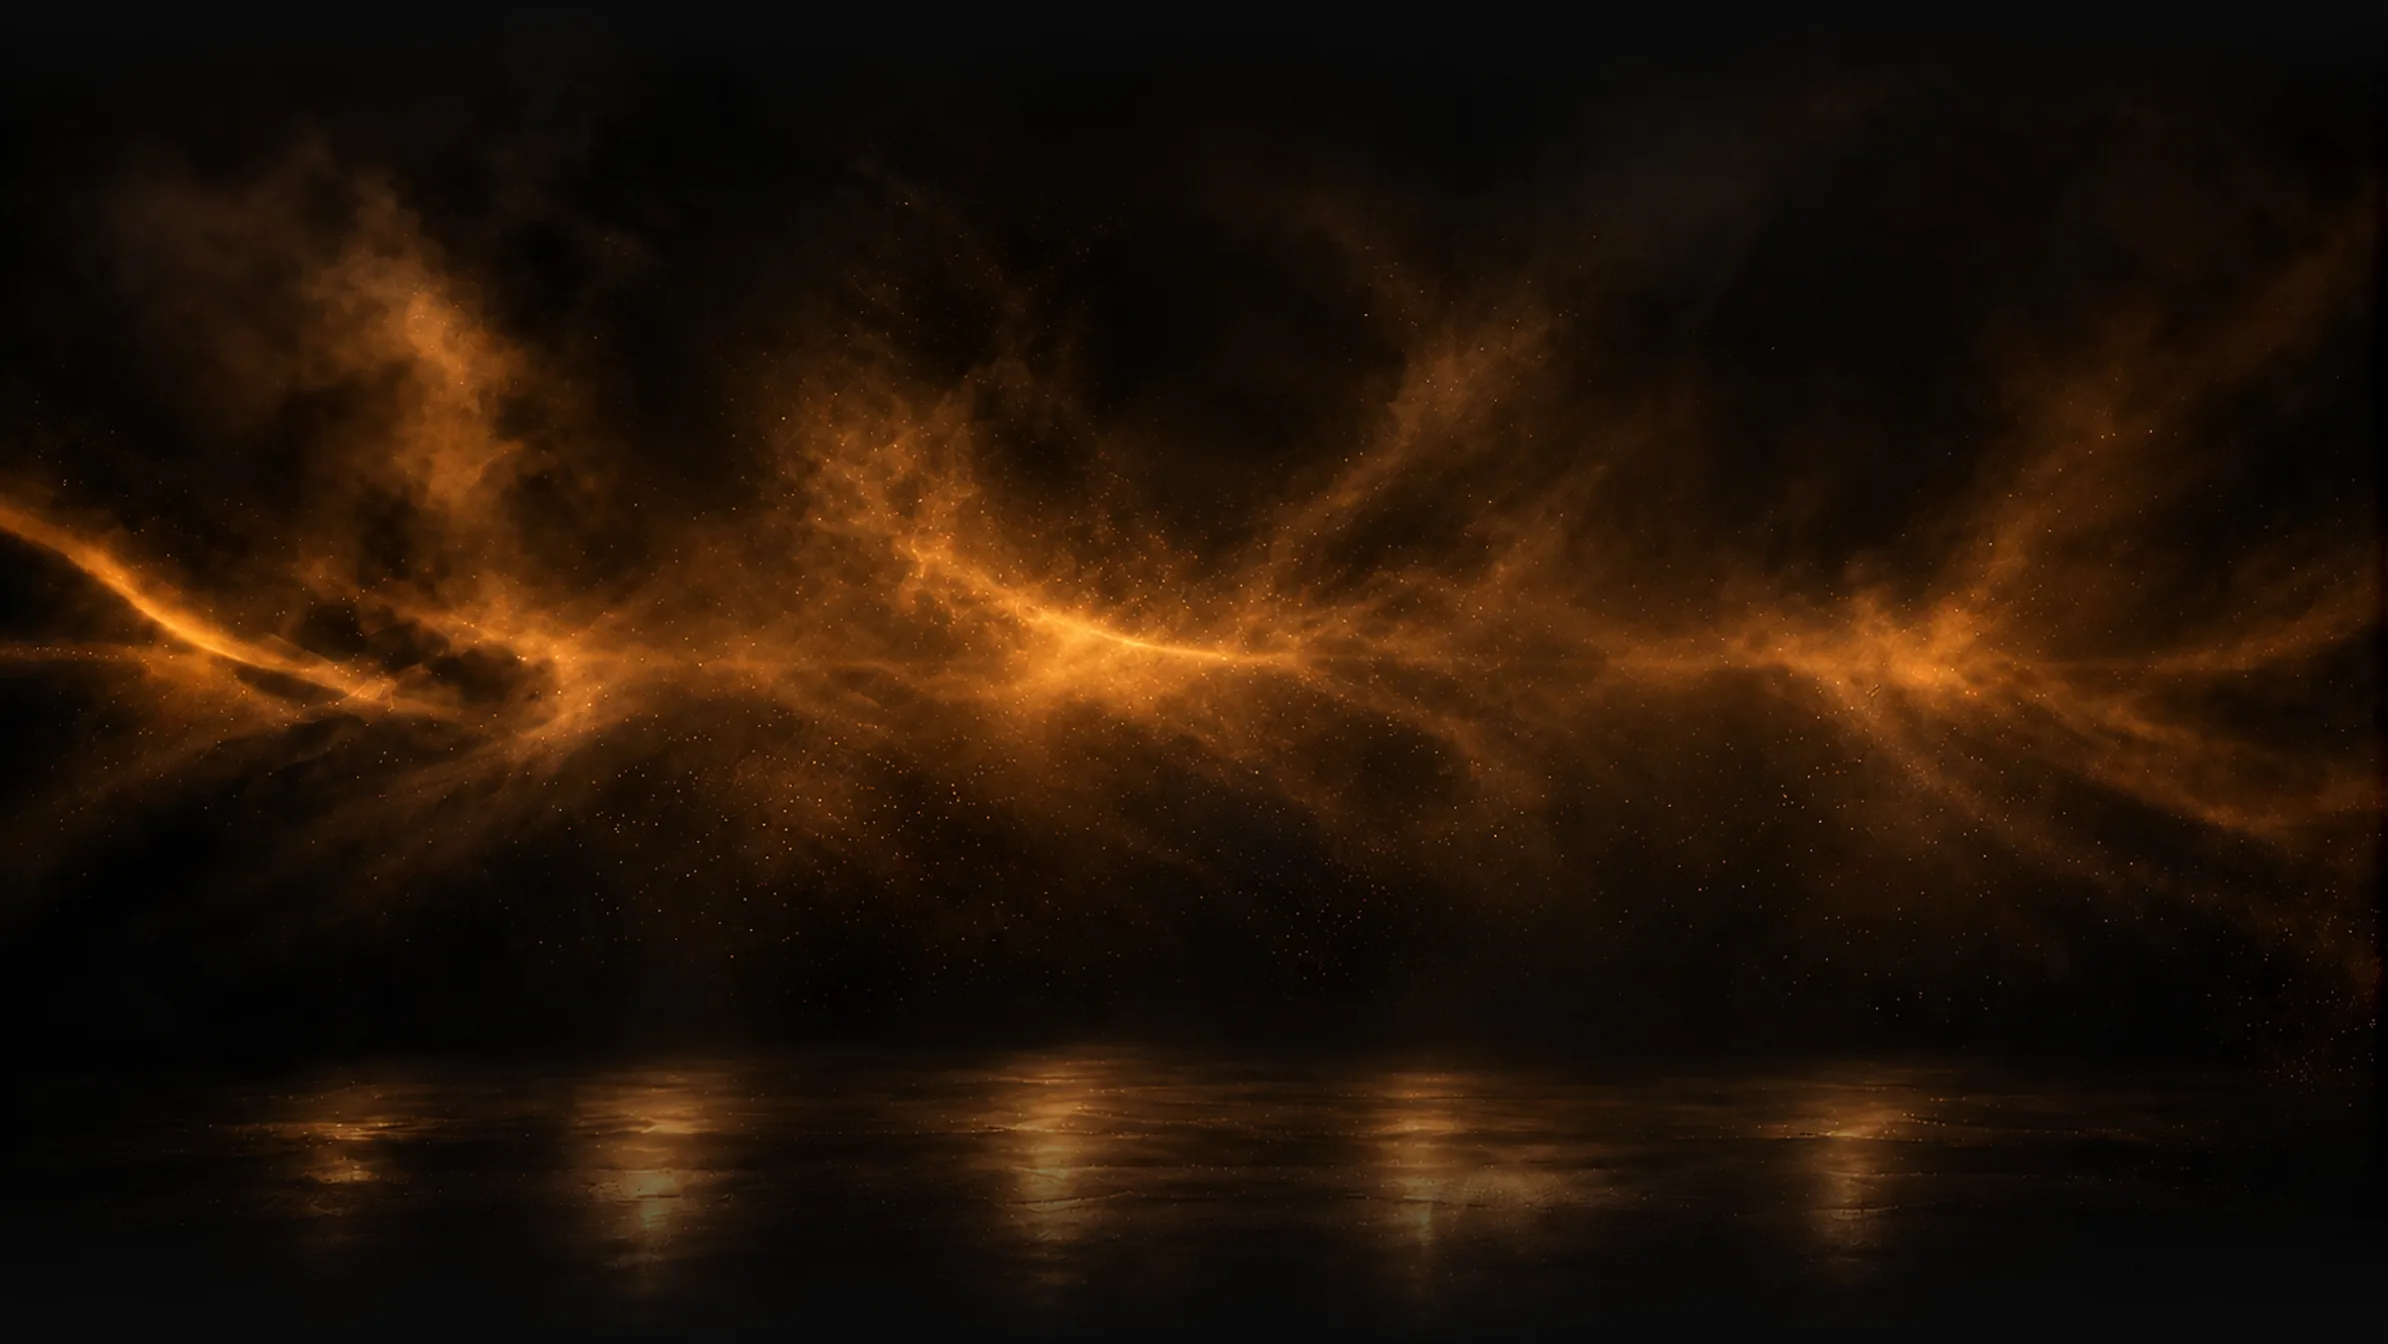
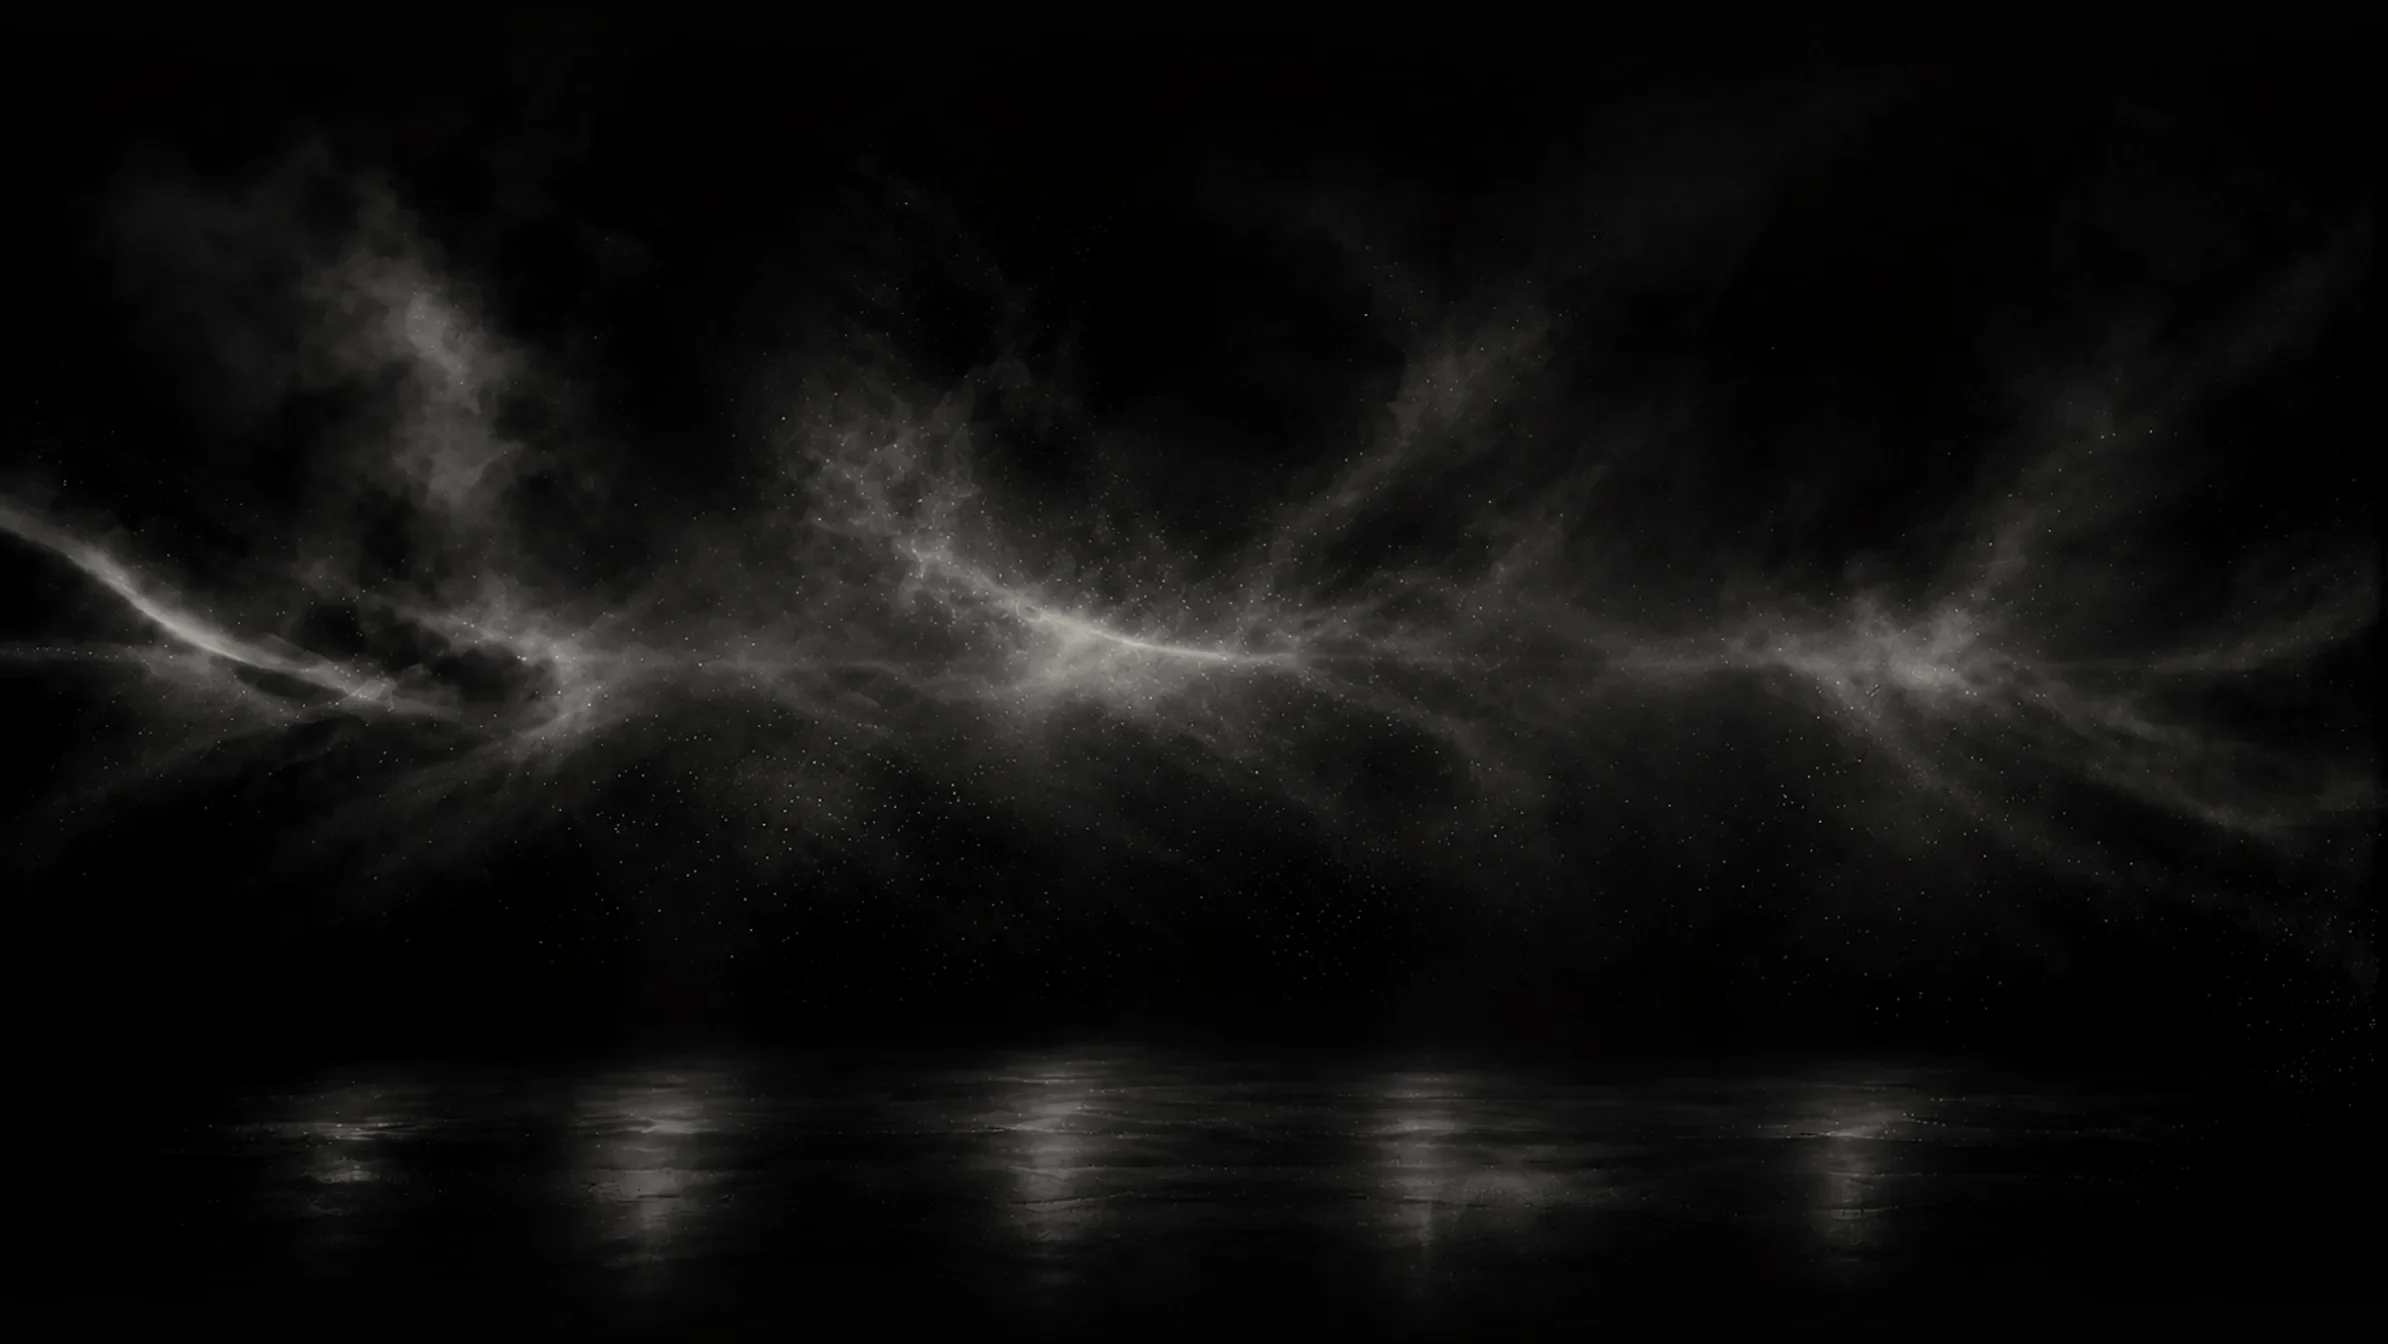
Product photos as transparent brand-graded cut-outs; bake image adjustments into files instead of CSS filters; whole-pixel selection rings; eager-load fitting walk photos

diff --git a/src/sections/product-main/product-main.css b/src/sections/product-main/product-main.css
@@ -236,7 +236,7 @@
 @media screen and (max-width: 900px) {
   .pm-thumb { height: 29px; }
   .pm-thumb__media { width: 29px; height: 29px; }
-  .pm-thumb.is-current { outline: 0.9px solid var(--pm-black); }
+  .pm-thumb.is-current { outline: none; }
 }
 
 /* ---------- page info ---------- */
@@ -724,4 +724,42 @@
 /* phones: Materials / Shipping copy matches the description */
 @media screen and (max-width: 900px) {
   .pm-panels .pm-panel__content { font-family: var(--pm-ff-serif); font-size: 12.5px; line-height: 1.5; letter-spacing: 0; text-transform: none; font-weight: 400; }
+}
+
+/* ---------- selection rings: whole-pixel and drawn inside the element ----------
+   Sub-pixel outlines (0.5px / 0.9px) are dropped by the browser at some zoom
+   levels and screen densities, so the current colour / image could lose its ring.
+   Swatch: 1px ring on the edge, 2px gap, colour fills the content box. */
+.pm-color {
+  width: 28px;
+  height: 18px;
+  padding: 2px;
+  border: 1px solid transparent;
+  border-radius: 0;
+  outline: none;
+  background: var(--swatch, #ccc) content-box;
+  box-shadow: inset 0 0 0 2px var(--obsidian);
+  transition: border-color 0.2s ease;
+}
+.pm-color::before {                       /* hairline on the colour itself, so near-black swatches still show */
+  content: '';
+  position: absolute;
+  inset: 2px;
+  box-shadow: inset 0 0 0 1px var(--pm-line-strong);
+  pointer-events: none;
+}
+.pm-color:hover { border-color: var(--pm-grey); }
+.pm-color.is-active { border-color: var(--pm-accent); outline: none; }
+.pm-color.is-oos::after { inset: 2px; }
+.pm-color:focus-visible { outline: 1px solid var(--pm-accent); outline-offset: 2px; }
+
+.pm-thumb { position: relative; }
+.pm-thumb.is-current { outline: none; }
+.pm-thumb.is-current::after {            /* ring above the image, inside the box */
+  content: '';
+  position: absolute;
+  inset: 0;
+  border-radius: inherit;
+  box-shadow: inset 0 0 0 1px var(--pm-black);
+  pointer-events: none;
 }

diff --git a/src/sections/bold/bold.css b/src/sections/bold/bold.css
@@ -135,7 +135,7 @@
   }
   .bold__mid { display: flex; justify-content: space-between; margin-top: calc(0.5 * var(--sr)); }
   .bold__group { display: flex; }
-  .bold__group img { display: block; width: max(28px, calc(3.2 * var(--sr))); height: max(28px, calc(3.2 * var(--sr))); filter: invert(1); }
+  .bold__group img { display: block; width: max(28px, calc(3.2 * var(--sr))); height: max(28px, calc(3.2 * var(--sr))); }
 }
 @media (min-width: 1024px) {
   .bold__text--bottom { width: calc(30 * var(--sr)); text-align: justify; }
@@ -162,7 +162,3 @@
   .bold__cursor.is-visible { opacity: 1; }
 }
 
-/* brand palette: the source images are gold / orange. Pull them to the neutral
-   sand-taupe range (desaturate, then a light warm tint) so nothing reads orange */
-.bold__bg img { filter: grayscale(1) sepia(0.22) saturate(0.7) brightness(0.85) contrast(1.05); }
-.bold__overlay img { filter: grayscale(1) sepia(0.28) saturate(0.6) brightness(1.08) contrast(1.05); }

diff --git a/src/sections/store-collage/store-collage.css b/src/sections/store-collage/store-collage.css
@@ -188,5 +188,3 @@
   .js .store-collage__grid .store-collage__card::after { animation: none; }
 }
 
-/* light street-map image on the dark brand: invert to a dark map, keep it neutral */
-.store-collage__img--map { filter: invert(1) grayscale(1) brightness(0.82) contrast(1.1); }

diff --git a/src/sections/film/film.css b/src/sections/film/film.css
@@ -41,7 +41,6 @@
   width: max(32px, calc(3.2 * var(--sr)));
   height: max(32px, calc(3.2 * var(--sr)));
   border-radius: 50%;
-  filter: invert(1);
 }
 
 .film__heading {
